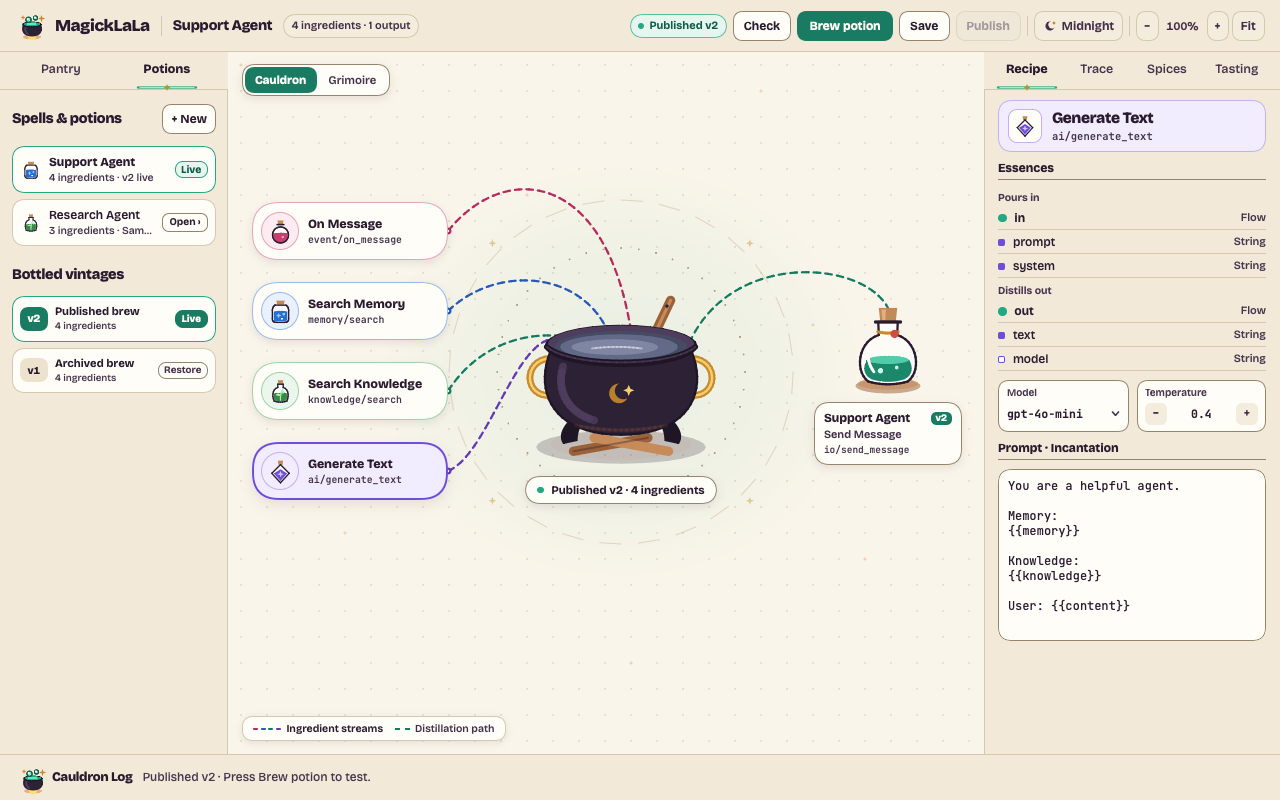
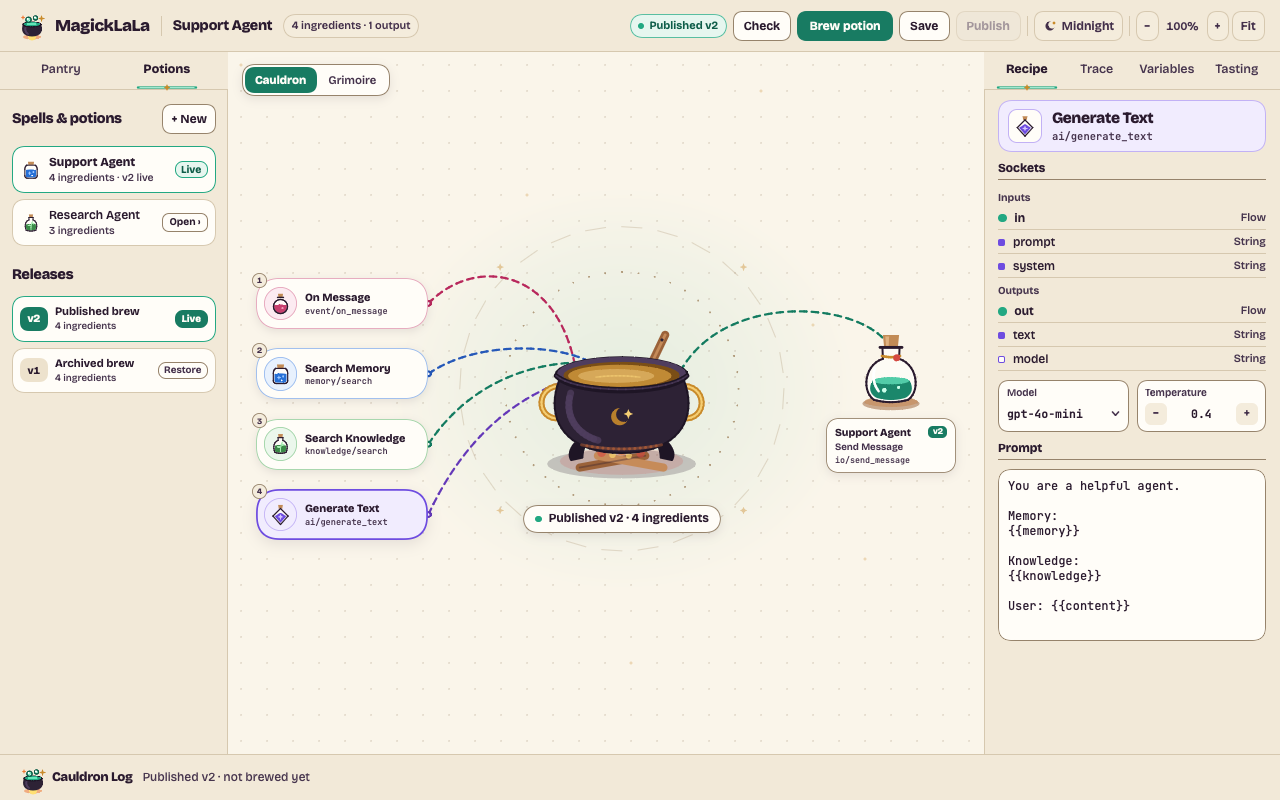
feat(studio,canvas): plain-word labels everywhere, warm idle broth with a low flame, real brewed plaque with filled bottle count, route labels beside their bottles, bypass pours under the plaque, untaken and simmer colours moved into the theme palette, tasting screenshots come from a real chat run

diff --git a/crates/magicklala-studio/src/view.rs b/crates/magicklala-studio/src/view.rs
@@ -42,13 +42,8 @@ fn figure(content: impl Into<String>, size: f32, weight: f32, color: Color) -> E
 
 fn category_title(category: &str) -> String {
     match category.to_ascii_lowercase().as_str() {
-        "events" => "Sparks & Events".to_owned(),
-        "flow" => "Whisk & Flow".to_owned(),
-        "ai" => "Arcane AI".to_owned(),
-        "memory" => "Memory Jars".to_owned(),
-        "knowledge" => "Herb Lore".to_owned(),
-        "io" => "Potion Bottles".to_owned(),
-        "code" => "Rhai Runes".to_owned(),
+        "ai" => "AI".to_owned(),
+        "io" => "Outputs".to_owned(),
         "json" => "JSON".to_owned(),
         other => {
             let mut chars = other.chars();
@@ -892,7 +887,7 @@ fn agents_and_releases(app: &StudioApp, light: bool, t: &HearthPalette) -> El {
                     ),
             );
     }
-    let mut column = column.child(section_bar("Bottled vintages"));
+    let mut column = column.child(section_bar("Releases"));
     if let Some(error) = &app.store_error {
         column = column.child(
             col()
@@ -917,13 +912,7 @@ fn agents_and_releases(app: &StudioApp, light: bool, t: &HearthPalette) -> El {
             .items_center()
             .gap(8.0)
             .child(canvas(empty_bottle_mark(light, 44.0)).key("releases-bobbin").size(44.0, 44.0))
-            .child(heading("No vintages yet", 14.5, 800.0, t.ink))
-            .child(col().items_center().gap(1.0).child(label("Publish a versioned", 12.0, 450.0, t.mute)).child(label(
-                "release you can pin.",
-                12.0,
-                450.0,
-                t.mute,
-            )))
+            .child(heading("No releases yet", 14.5, 800.0, t.ink))
             .child(row().pt(2.0).child(button_el(
                 "empty-publish",
                 "Publish",
@@ -1058,7 +1047,7 @@ fn inspector(app: &StudioApp, t: &HearthPalette) -> El {
         .border_sides([0.0, 0.0, 1.0, 0.0], t.rule)
         .child(tab_sized("tab-inspector", "Recipe", app.right_tab == RightTab::Inspector, compact, light, t, |app| app.right_tab = RightTab::Inspector))
         .child(trace_tab)
-        .child(tab_sized("tab-variables", "Spices", app.right_tab == RightTab::Variables, compact, light, t, |app| app.right_tab = RightTab::Variables))
+        .child(tab_sized("tab-variables", "Variables", app.right_tab == RightTab::Variables, compact, light, t, |app| app.right_tab = RightTab::Variables))
         .child(tab_sized("tab-playground", "Tasting", app.right_tab == RightTab::Playground, compact, light, t, |app| app.right_tab = RightTab::Playground));
     let mut panel = col().key("inspector").w(panel_w).h_full().min_h(0.0).fill(t.shelf).border_sides([0.0, 0.0, 0.0, 1.0], t.rule).child(tabs);
     match app.right_tab {
@@ -1108,18 +1097,18 @@ fn inspector(app: &StudioApp, t: &HearthPalette) -> El {
 
 fn variables_table(app: &StudioApp, t: &HearthPalette) -> El {
     let count = app.spell.variables.len();
-    let count_word = if count == 1 { "1 spice" } else { &format!("{count} spices") };
+    let count_word = if count == 1 { "1 variable" } else { &format!("{count} variables") };
     let top_bar = row()
         .w_full()
         .pt(12.0)
         .pb(10.0)
         .items_center()
         .justify_between()
-        .child(col().gap(1.0).child(heading("Potion spices", 14.5, 800.0, t.ink)).child(label(count_word, 11.0, 500.0, t.mute)))
+        .child(col().gap(1.0).child(heading("Variables", 14.5, 800.0, t.ink)).child(label(count_word, 11.0, 500.0, t.mute)))
         .child(button_el("add-variable", "+ Add", ButtonKind::Secondary, 10.0, t, StudioApp::add_variable));
     let list = col().gap(8.0).child(top_bar);
     if app.spell.variables.is_empty() {
-        return list.child(col().w_full().py(24.0).items_center().gap(6.0).child(label("No spices measured yet.", 12.5, 500.0, t.mute)));
+        return list.child(col().w_full().py(24.0).items_center().gap(6.0).child(label("No variables yet", 12.5, 500.0, t.mute)));
     }
     app.spell.variables.iter().enumerate().fold(list, |list, (idx, variable)| {
         let remove_name = variable.name.clone();
@@ -1317,8 +1306,7 @@ fn run_summary_inspector(app: &StudioApp, t: &HearthPalette) -> El {
             .items_center()
             .gap(10.0)
             .child(canvas(empty_bottle_mark(app.theme == Theme::Light, 42.0)).size(42.0, 42.0))
-            .child(heading("No brews yet", 15.5, 800.0, t.ink))
-            .child(label("Press Brew potion to inspect the execution trace.", 12.0, 450.0, t.mute).wrap());
+            .child(heading("No brews yet", 15.5, 800.0, t.ink));
     }
     let finished: Vec<&TraceLine> = app.trace.iter().filter(|line| line.kind == "NodeFinished" || line.kind == "NodeFailed").collect();
     let total_ms = app.trace.last().map_or(0, |line| line.at_ms);
@@ -1381,7 +1369,6 @@ fn run_summary_inspector(app: &StudioApp, t: &HearthPalette) -> El {
         }
         list.child(item)
     });
-    let noun = if app.canvas.mode == WorkbenchMode::Grimoire { "node" } else { "ingredient vial" };
     col()
         .key("inspector-trace")
         .gap(10.0)
@@ -1389,7 +1376,6 @@ fn run_summary_inspector(app: &StudioApp, t: &HearthPalette) -> El {
         .child(header)
         .child(inspector_section_heading("Brewing sequence", t))
         .child(steps)
-        .child(label(format!("Click any step or {noun} to inspect its recipe."), 11.5, 450.0, t.mute).wrap())
 }
 
 fn inspector_body(app: &StudioApp, light: bool, t: &HearthPalette) -> El {
@@ -1457,11 +1443,11 @@ fn inspector_body(app: &StudioApp, light: bool, t: &HearthPalette) -> El {
     };
     let mut sockets = col().gap(0.0);
     if !card.inputs.is_empty() {
-        sockets = sockets.child(row().w_full().pt(2.0).pb(2.0).child(label("Pours in", 10.5, 650.0, t.mute)));
+        sockets = sockets.child(row().w_full().pt(2.0).pb(2.0).child(label("Inputs", 10.5, 650.0, t.mute)));
         sockets = card.inputs.iter().fold(sockets, |list, socket| list.child(socket_row_el(socket, true)));
     }
     if !card.outputs.is_empty() {
-        sockets = sockets.child(row().w_full().pt(if compact { 4.0 } else { 6.0 }).pb(2.0).child(label("Distills out", 10.5, 650.0, t.mute)));
+        sockets = sockets.child(row().w_full().pt(if compact { 4.0 } else { 6.0 }).pb(2.0).child(label("Outputs", 10.5, 650.0, t.mute)));
         sockets = card.outputs.iter().fold(sockets, |list, socket| list.child(socket_row_el(socket, false)));
     }
     let id = card.id.clone();
@@ -1548,7 +1534,7 @@ fn inspector_body(app: &StudioApp, light: bool, t: &HearthPalette) -> El {
                 .child(actions.child(button_el("inspector-open-grimoire", "Grimoire", ButtonKind::Secondary, 8.0, t, StudioApp::open_grimoire))),
         );
     }
-    let mut column = column.child(inspector_section_heading("Essences", t)).child(sockets);
+    let mut column = column.child(inspector_section_heading("Sockets", t)).child(sockets);
     if card.kind == "ai/generate_text" {
         let temp_value = app.selected_temperature().to_string();
         let model_name = app.selected_model_name();
@@ -1695,7 +1681,7 @@ fn editor_caption(field: &str) -> &'static str {
         "script" => "Rhai rune",
         "template" => "Template",
         SUBGRAPH_SPELL_FIELD => "Spell ID",
-        _ => "Prompt · Incantation",
+        _ => "Prompt",
     }
 }
 
@@ -1709,7 +1695,7 @@ fn playground_panel(app: &StudioApp, light: bool, t: &HearthPalette) -> El {
     let mut panel = col().key("playground-panel").w_full().grow(1.0).min_h(0.0);
     if has_conversation {
         let turn_count = transcript.iter().filter(|m| m.from_user).count();
-        let turn_label = if turn_count == 1 { "1 sip".to_owned() } else { format!("{turn_count} sips") };
+        let turn_label = if turn_count == 1 { "1 message".to_owned() } else { format!("{turn_count} messages") };
         let header_caption = format!("Draft test · {turn_label}");
         panel = panel.child(
             row()
@@ -1741,8 +1727,7 @@ fn playground_panel(app: &StudioApp, light: bool, t: &HearthPalette) -> El {
             .items_center()
             .gap(10.0)
             .child(canvas(empty_bottle_mark(light, 42.0)).size(42.0, 42.0))
-            .child(heading("Taste this potion", 15.0, 800.0, t.ink))
-            .child(label("Send a prompt below to brew the cauldron and taste its reply.", 12.5, 450.0, t.mute).wrap())
+            .child(heading("No messages yet", 15.0, 800.0, t.ink))
     } else {
         transcript.iter().enumerate().fold(col().gap(2.0).pt(8.0).pb(12.0), |mut list, (index, message)| {
             if message.from_user && index > 0 {
@@ -1785,7 +1770,7 @@ fn playground_panel(app: &StudioApp, light: bool, t: &HearthPalette) -> El {
     let input_el = text_input(&app.chat_input, font(13.0, 450.0))
         .single_line()
         .key("chat-input")
-        .label("Taste this potion")
+        .label("Message")
         .w_full()
         .h(20.0)
         .fill(t.card)
@@ -1794,7 +1779,7 @@ fn playground_panel(app: &StudioApp, light: bool, t: &HearthPalette) -> El {
         .on_submit(|app: &mut StudioApp, _| app.send_chat());
     let mut input_slot = row().grow(1.0).min_w(0.0).h(32.0).px(8.0).items_center().child(input_el);
     if app.chat_input.text.is_empty() {
-        input_slot = input_slot.child(row().h(32.0).px(8.0).items_center().absolute(0.0, 0.0).child(label("Taste this potion…", 12.5, 450.0, t.placeholder)));
+        input_slot = input_slot.child(row().h(32.0).px(8.0).items_center().absolute(0.0, 0.0).child(label("Message…", 12.5, 450.0, t.placeholder)));
     }
     let composer_box = row()
         .w_full()
@@ -1870,11 +1855,9 @@ fn trace_strip(app: &StudioApp, t: &HearthPalette) -> El {
         let run_hint = if app.canvas.nodes.is_empty() {
             "Idle · no brews yet.".to_owned()
         } else if let Some(v) = app.active_release_version {
-            format!("Published v{v} · Press Brew potion to test.")
-        } else if app.compact_toolbar() {
-            "Ready. Press Brew to run.".to_owned()
+            format!("Published v{v} · not brewed yet")
         } else {
-            "Ready. Press Brew potion to run.".to_owned()
+            "Not brewed yet".to_owned()
         };
         let mut bar = row()
             .key("trace-strip")

diff --git a/crates/magicklala-canvas/src/view.rs b/crates/magicklala-canvas/src/view.rs
@@ -156,10 +156,10 @@ pub(crate) fn ingredient_vial_card<S: 'static>(
     let tone = category_tone(&card.category, state.light);
     let hexed = card.status == ExecutionStatus::Failed || card.inputs.iter().any(|s| s.flagged);
     let dimmed = state.has_run() && card.status == ExecutionStatus::Idle && !card.selected && !hexed;
-    let untaken_bg = if state.light { hex(0xF1EFF6) } else { hex(0x1E192D) };
-    let untaken_border = if state.light { hex(0x9890AA) } else { hex(0x5E547D) };
-    let untaken_title = if state.light { hex(0x3A3248) } else { hex(0xDFD9F0) };
-    let untaken_sub = if state.light { hex(0x524963) } else { hex(0xC2B9D9) };
+    let untaken_bg = p.untaken_fill();
+    let untaken_border = p.untaken_border();
+    let untaken_title = p.untaken_title();
+    let untaken_sub = p.untaken_sub();
     let border_col = if hexed {
         p.hex
     } else if card.selected {
@@ -249,7 +249,7 @@ pub(crate) fn ingredient_vial_card<S: 'static>(
                 .child(text(ms_text).font(TextStyle::new(9.5, 700.0).features("'tnum' 1")).color(if state.light { p.broth_deep } else { p.broth_foam })),
         )
     } else if card.status == ExecutionStatus::Running {
-        Some(row().px(6.0).py(1.5).radius(7.0).fill(p.card).border(1.0, p.gold).child(text("Simmering").font(TextStyle::new(9.2, 750.0)).color(p.gold)))
+        Some(row().px(6.0).py(1.5).radius(7.0).fill(p.card).border(1.0, p.gold).child(text("Simmering").font(TextStyle::new(9.2, 750.0)).color(p.simmer_ink())))
     } else if dimmed {
         let untaken_label = state
             .wires
@@ -262,9 +262,9 @@ pub(crate) fn ingredient_vial_card<S: 'static>(
                 .px(5.5)
                 .py(1.5)
                 .radius(7.0)
-                .fill(if state.light { hex(0xF5F2FA) } else { hex(0x2B243F) })
-                .border(1.0, if state.light { hex(0x9890AA) } else { hex(0x5E547D) })
-                .child(text(untaken_label).font(TextStyle::new(9.2, 700.0)).color(if state.light { hex(0x322A42) } else { hex(0xDFD8F2) })),
+                .fill(p.untaken_pill_fill())
+                .border(1.0, p.untaken_border())
+                .child(text(untaken_label).font(TextStyle::new(9.2, 700.0)).color(p.untaken_pill_ink())),
         )
     } else {
         None
@@ -381,22 +381,22 @@ pub(crate) fn branch_bottle_view<S: 'static>(
             .px(5.5)
             .py(1.5)
             .radius(7.0)
-            .fill(if state.light { hex(0xF6F4FA) } else { hex(0x2B243F) })
-            .border(1.0, if state.light { hex(0x9890AA) } else { hex(0x5E547D) })
-            .child(text("Untaken").font(TextStyle::new(9.2, 700.0)).color(if state.light { hex(0x3A3248) } else { hex(0xDFD9F0) }))
+            .fill(p.untaken_pill_fill())
+            .border(1.0, p.untaken_border())
+            .child(text("Untaken").font(TextStyle::new(9.2, 700.0)).color(p.untaken_title()))
     } else {
         row().px(5.5).py(1.5).radius(7.0).fill(p.wash_2).border(1.0, p.rule_2).child(text("Branch").font(TextStyle::new(9.2, 650.0)).color(p.ink_2))
     };
-    let card_bg = if untaken { if state.light { hex(0xF1EFF6) } else { hex(0x1E192D) } } else { p.card };
+    let card_bg = if untaken { p.untaken_fill() } else { p.card };
     let card_border = if card.selected || taken {
         p.broth_mid
     } else if untaken {
-        if state.light { hex(0x9890AA) } else { hex(0x5E547D) }
+        p.untaken_border()
     } else {
         p.rule_2
     };
-    let title_col = if untaken { if state.light { hex(0x3A3248) } else { hex(0xDFD9F0) } } else { p.ink };
-    let sub_col = if untaken { if state.light { hex(0x524963) } else { hex(0xC2B9D9) } } else { p.mute };
+    let title_col = if untaken { p.untaken_title() } else { p.ink };
+    let sub_col = if untaken { p.untaken_sub() } else { p.mute };
     let tag_inner = col()
         .w_full()
         .px(10.0)
@@ -473,7 +473,7 @@ pub(crate) fn potion_stand_view<S: 'static>(
                 .px(5.0)
                 .py(1.0)
                 .radius(5.5)
-                .fill(if state.light { hex(0xE6F6EF) } else { with_alpha(p.broth_mid, 0.24) })
+                .fill(p.route_taken_fill())
                 .border(1.0, p.broth_mid)
                 .child(text("Test").font(TextStyle::new(9.2, 700.0)).color(if state.light { p.broth_deep } else { p.broth_foam })),
         );
@@ -826,8 +826,8 @@ fn grimoire_card_view<S: 'static>(
         );
     let perched_badge = status_box(card.status, card.duration_ms, p, zoom).or_else(|| {
         dimmed.then(|| {
-            let badge_bg = if state.light { hex(0xF5F2FA) } else { hex(0x2B243F) };
-            let badge_ink = if state.light { hex(0x322A42) } else { hex(0xDFD8F2) };
+            let badge_bg = p.untaken_pill_fill();
+            let badge_ink = p.untaken_pill_ink();
             row()
                 .px((6.0 * zoom).max(5.5))
                 .py((1.8 * zoom).max(1.5))

diff --git a/crates/magicklala-canvas/src/cauldron.rs b/crates/magicklala-canvas/src/cauldron.rs
@@ -59,7 +59,6 @@ fn streams_shape(state: &CanvasState, plan: &BrewPlan, mood: CauldronMood, p: &H
     let ingredients: Vec<&BrewCard> = plan.with_role(BrewRole::Ingredient).collect();
     let bottles: Vec<&BrewCard> = plan.with_role(BrewRole::Bottle).collect();
     let multi = bottles.len() > 1;
-    let pot_bottom = plan.pot[1] + plan.pot[3] * 0.98;
     let spread = ingredients.len().max(2) as f32 - 1.0;
     for (index, placed) in ingredients.iter().enumerate() {
         let Some(card) = state.card(&placed.id) else { continue };
@@ -70,7 +69,7 @@ fn streams_shape(state: &CanvasState, plan: &BrewPlan, mood: CauldronMood, p: &H
         shape = match target {
             Some(bottle) => {
                 let to = [bottle.rect[0], bottle.rect[1] + bottle.rect[3] * 0.62];
-                bypass_stream(shape, from, to, pot_bottom + 26.0 * plan.scale, style)
+                bypass_stream(shape, from, to, plan.plaque_top + 46.0 * plan.scale, style)
             }
             None => pouring_stream_shape(shape, from, rim_point(plan, index as f32 / spread.max(1.0)), style),
         };
@@ -107,7 +106,7 @@ fn route_label(state: &CanvasState, bottle: &NodeId) -> Option<String> {
         .filter(|socket| socket != "out")
 }
 
-fn route_pill(state: &CanvasState, placed: &BrewCard, multi: bool, p: &HearthPalette) -> Option<El> {
+fn route_pill(state: &CanvasState, placed: &BrewCard, multi: bool, scale: f32, p: &HearthPalette) -> Option<El> {
     if !multi {
         return None;
     }
@@ -123,7 +122,7 @@ fn route_pill(state: &CanvasState, placed: &BrewCard, multi: bool, p: &HearthPal
         .fill(if taken { p.route_taken_fill() } else { p.card })
         .border(1.0, if taken { p.broth_mid } else { p.rule_2 })
         .child(text(label).font(TextStyle::new(11.0, if taken { 700.0 } else { 600.0 }).mono()).color(if taken { p.broth_ink() } else { p.ink_2 }));
-    Some(row().w(120.0).justify_end().absolute(neck[0] - placed.rect[2] * 0.5 - 128.0, neck[1] - 10.0).child(pill))
+    Some(row().absolute(neck[0] + 30.0 * scale, neck[1] - 10.0).child(pill))
 }
 
 fn bubbles(mood: CauldronMood, plan: &BrewPlan, p: &HearthPalette) -> Vec<El> {
@@ -177,7 +176,10 @@ fn plaque_text(state: &CanvasState, mood: CauldronMood, plan: &BrewPlan) -> Stri
         CauldronMood::Simmering => format!("Brewing · {ingredients} {word}"),
         CauldronMood::Brewed => {
             let ms: u64 = state.nodes.iter().filter_map(|card| card.duration_ms).sum();
-            if ms == 0 { "Brewed · <1ms".to_owned() } else { format!("Brewed · {ms}ms") }
+            let time = if ms == 0 { "<1ms".to_owned() } else { format!("{ms}ms") };
+            let bottles: Vec<&BrewCard> = plan.with_role(BrewRole::Bottle).collect();
+            let filled = bottles.iter().filter(|placed| state.card(&placed.id).is_some_and(|card| card.status == ExecutionStatus::Succeeded)).count();
+            if bottles.len() > 1 { format!("Brewed · {time} · {filled} of {} bottles", bottles.len()) } else { format!("Brewed · {time}") }
         }
         CauldronMood::Ready => match &state.release_badge {
             Some(badge) => format!("Published {badge} · {ingredients} {word}{aside_part}"),
@@ -387,7 +389,7 @@ pub fn cauldron_workbench_view<S: 'static>(state: &CanvasState, size: (f32, f32)
         };
         board =
             board.child(el().key(format!("node-{}", placed.id.0)).size(natural[0], natural[1]).absolute(origin[0], origin[1]).child(view).scale(plan.scale));
-        if let Some(pill) = route_pill(state, placed, multi, &p) {
+        if let Some(pill) = route_pill(state, placed, multi, plan.scale, &p) {
             board = board.child(pill);
         }
     }

diff --git a/crates/magicklala-canvas/src/hearth.rs b/crates/magicklala-canvas/src/hearth.rs
@@ -224,6 +224,14 @@ impl HearthPalette {
         if self.light { hex(0x524963) } else { hex(0xC2B9D9) }
     }
 
+    pub fn untaken_pill_fill(&self) -> Color {
+        if self.light { hex(0xF5F2FA) } else { hex(0x2B243F) }
+    }
+
+    pub fn untaken_pill_ink(&self) -> Color {
+        if self.light { hex(0x322A42) } else { hex(0xDFD8F2) }
+    }
+
     pub fn simmer_ink(&self) -> Color {
         if self.light { hex(0x7A4E0C) } else { self.gold_hi }
     }
@@ -407,10 +415,10 @@ fn broth_colors(mood: CauldronMood, p: &HearthPalette) -> (Color, Color, Color, 
             hex(0xCFC7E2),
         ),
         CauldronMood::Ready => (
-            hex(if p.light { 0x454B63 } else { 0x262B42 }),
-            hex(if p.light { 0x626A87 } else { 0x3C4466 }),
-            hex(if p.light { 0xA4ACC4 } else { 0x6F79A1 }),
-            hex(0xE8ECF7),
+            hex(if p.light { 0x7A4E16 } else { 0x5E3A10 }),
+            hex(if p.light { 0xC08A35 } else { 0xA8762A }),
+            hex(if p.light { 0xF4D28A } else { 0xE6BF6E }),
+            p.gold_hi,
         ),
         CauldronMood::Simmering => (p.broth_deep, hex(0x28C99B), hex(0x88FFCF), p.gold_hi),
         CauldronMood::Brewed => (hex(0x118A6E), hex(0x24D4A0), hex(0x82FFD6), p.gold_hi),
@@ -741,7 +749,7 @@ pub fn hero_cauldron_shape(mood: CauldronMood, light: bool, width: f32, height: 
     s = fill_ellipse(s, cx, shadow_y, 82.0 * u, 16.0 * u, with_alpha(p.shadow_soft, if light { 0.22 } else { 0.55 }));
     let ember_alpha = match mood {
         CauldronMood::Empty => 0.0,
-        CauldronMood::Ready => 0.18,
+        CauldronMood::Ready => 0.62,
         CauldronMood::Hexed => 0.32,
         CauldronMood::Simmering | CauldronMood::Brewed => 0.96,
     };
@@ -764,7 +772,8 @@ pub fn hero_cauldron_shape(mood: CauldronMood, light: bool, width: f32, height: 
         shape.fill_path(&path, color)
     };
     let flame_scale = match mood {
-        CauldronMood::Empty | CauldronMood::Ready => 0.0,
+        CauldronMood::Empty => 0.0,
+        CauldronMood::Ready => 0.62,
         CauldronMood::Hexed => 0.32,
         CauldronMood::Simmering | CauldronMood::Brewed => 1.18,
     };
